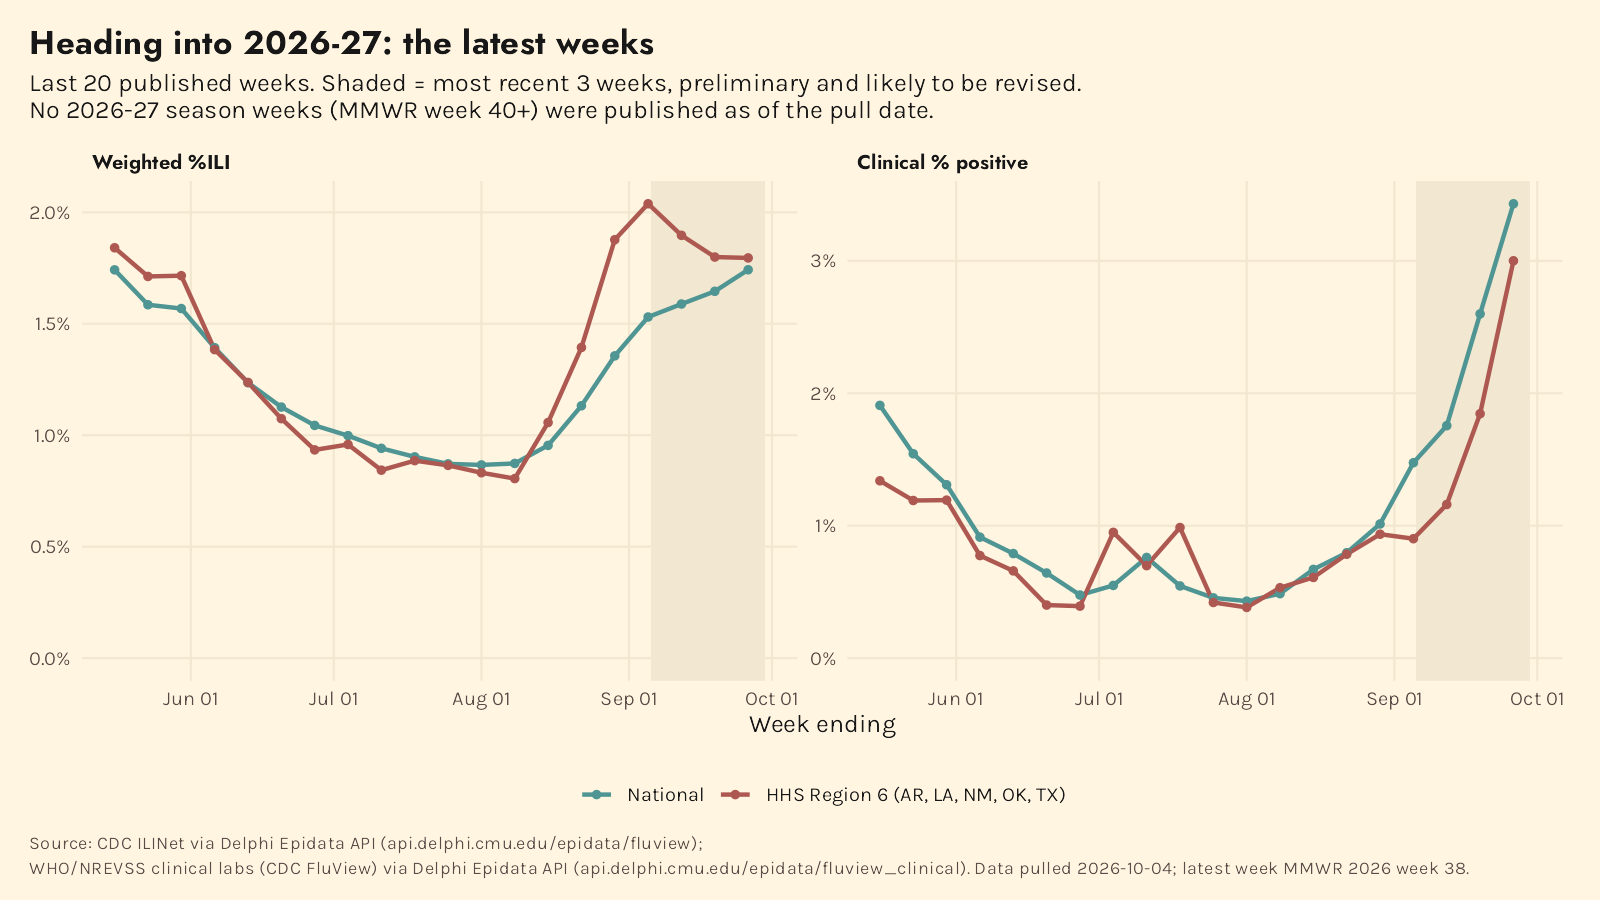
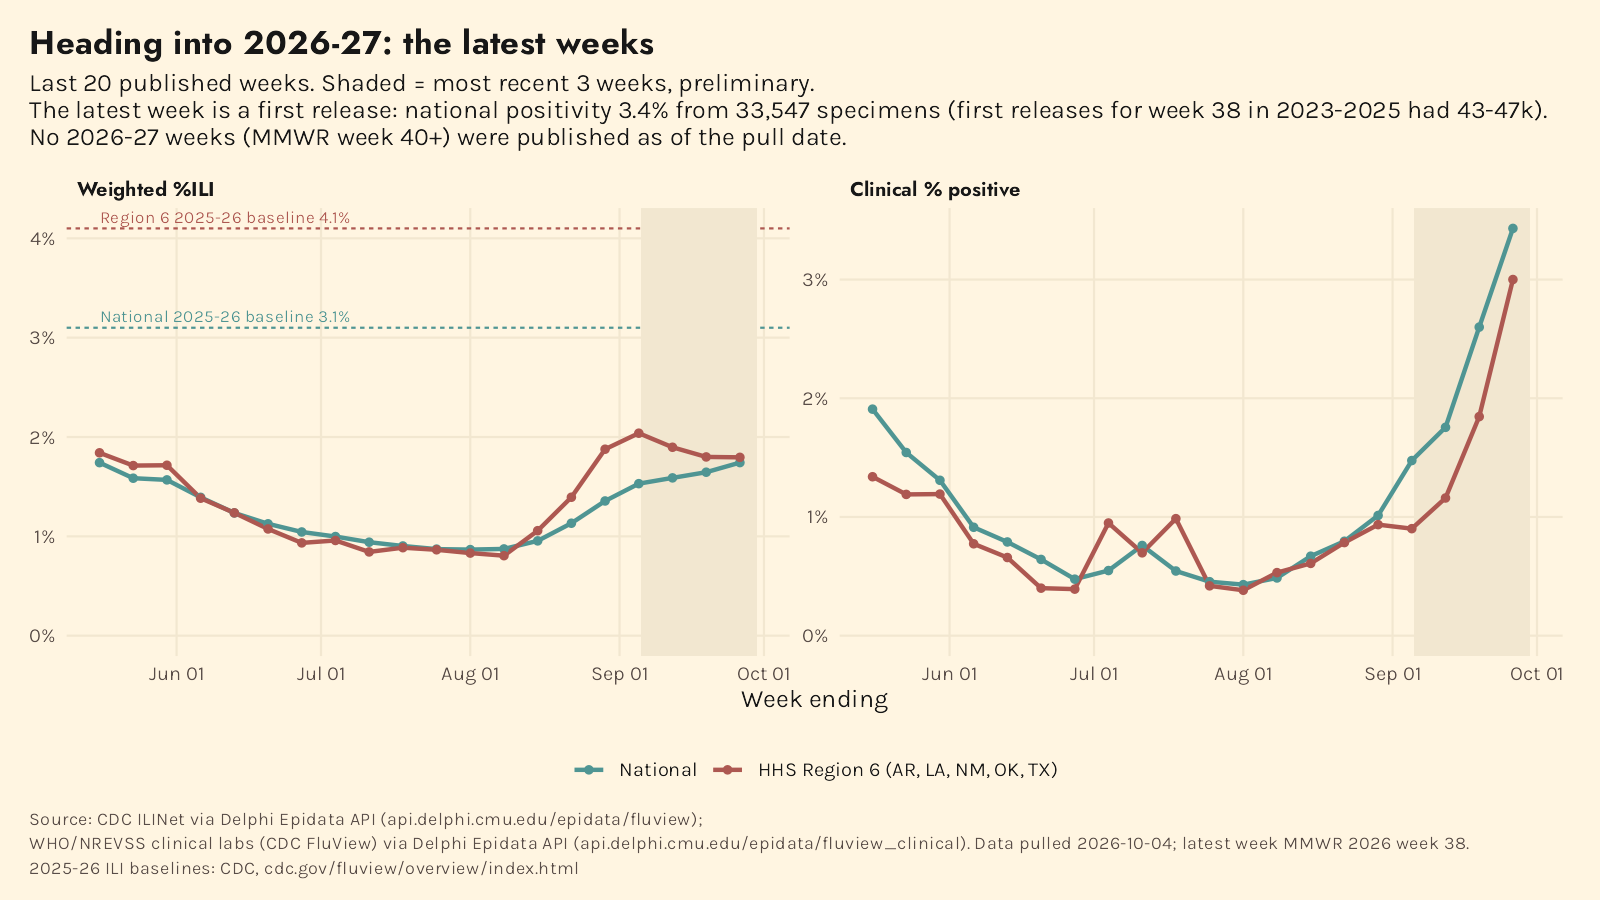
Flu post: CDC baselines, revision direction/relative size, first-release and Right Size notes in figures

diff --git a/posts/2026-10-flu-surveillance/data/reference/README.md b/posts/2026-10-flu-surveillance/data/reference/README.md
@@ -1,0 +1,9 @@
+# Reference values (hand-transcribed)
+
+`cdc_ili_baselines_2025_26.csv`: CDC's 2025-26 ILINet baselines, copied from
+[U.S. Influenza Surveillance: Purpose and Methods](https://www.cdc.gov/fluview/overview/index.html)
+(page dated Dec 2, 2025; checked 2026-10-04). CDC: "During the 2025-2026 influenza season, the
+national baseline is 3.1%", calculated as the mean %ILI during non-influenza weeks of 2022-23,
+2023-24 and 2024-25 plus two standard deviations; region-specific baselines use the same method, and
+"it is not appropriate to apply the national baseline to regional data." These baselines apply to
+the 2025-26 season only.
